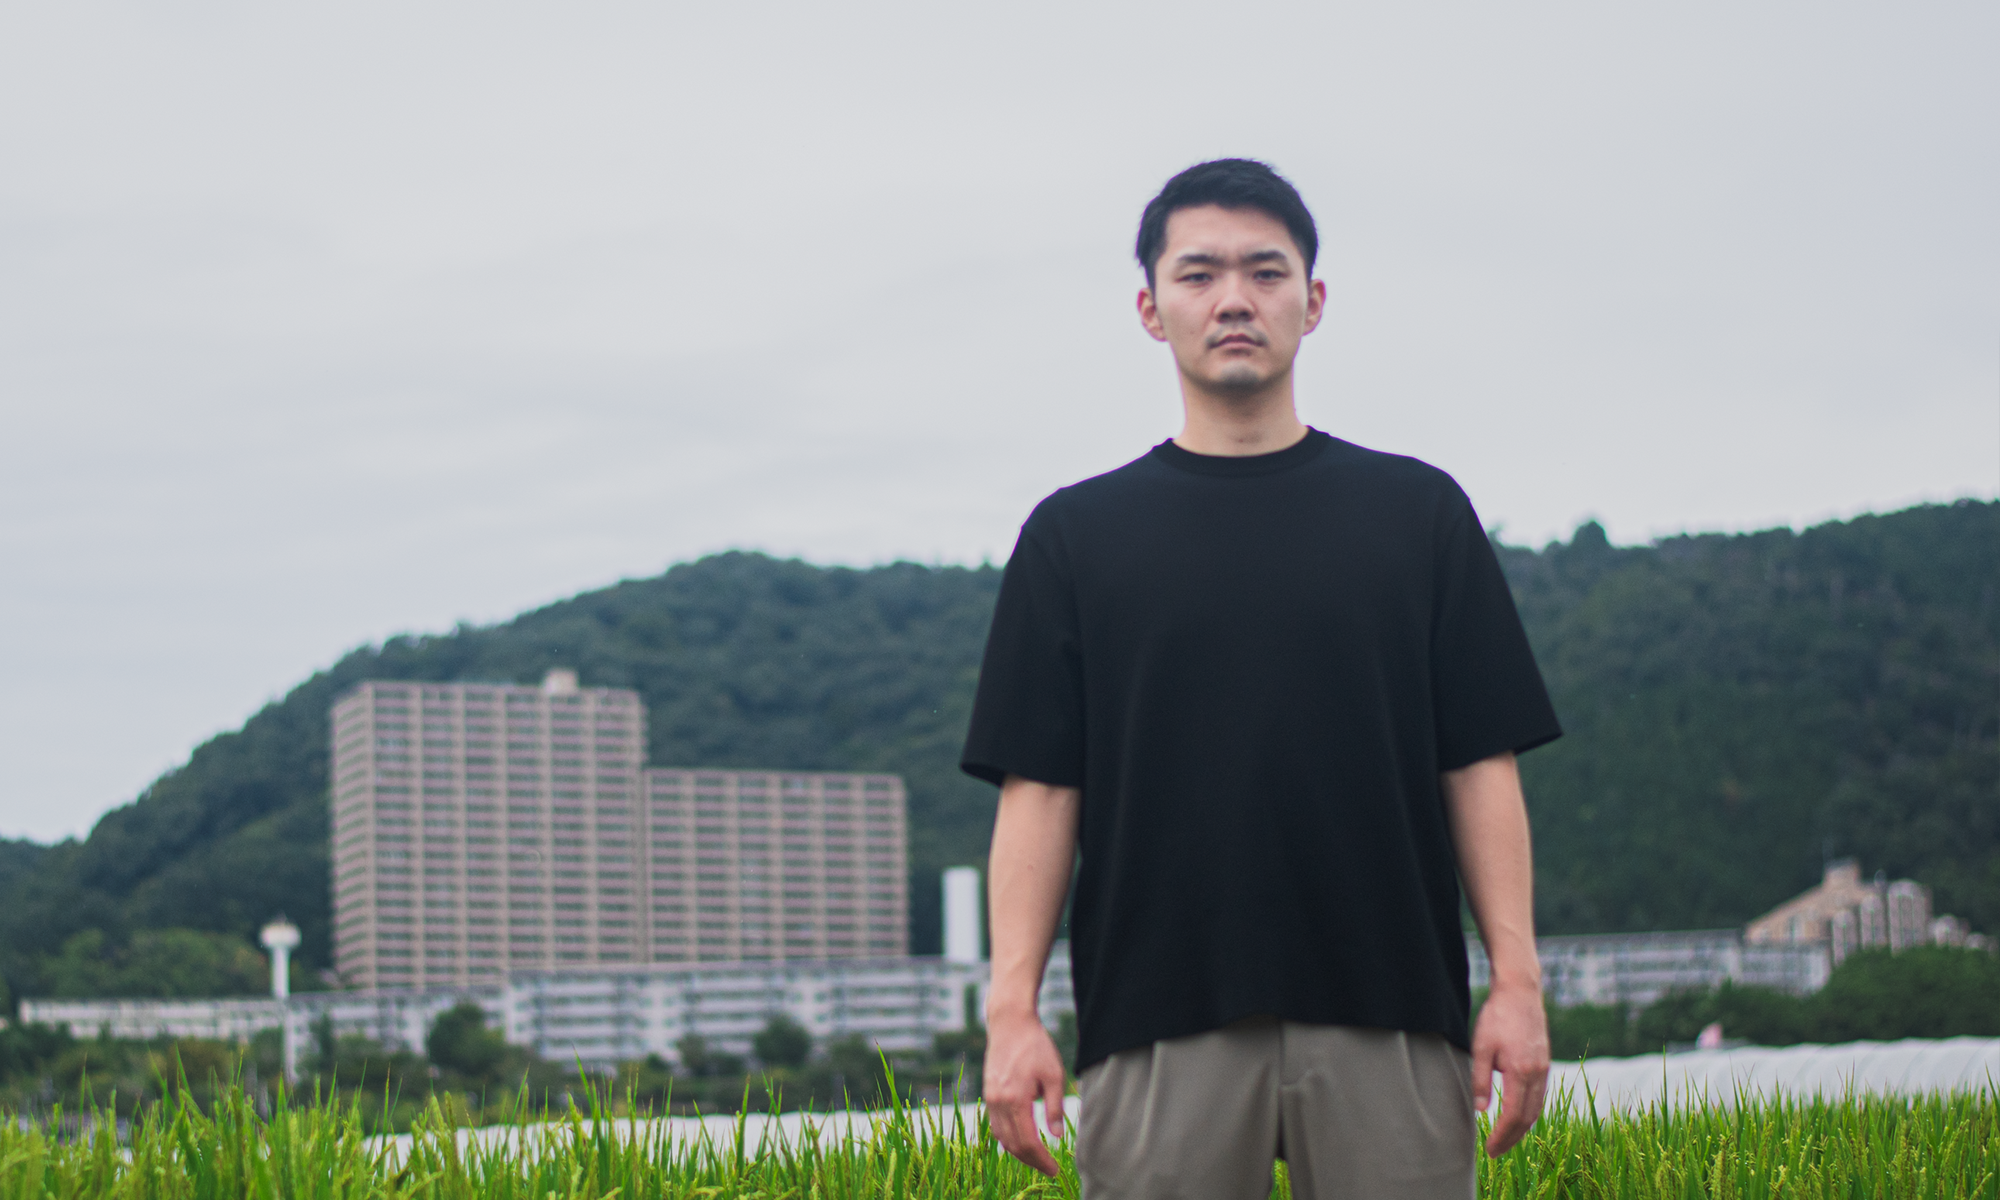
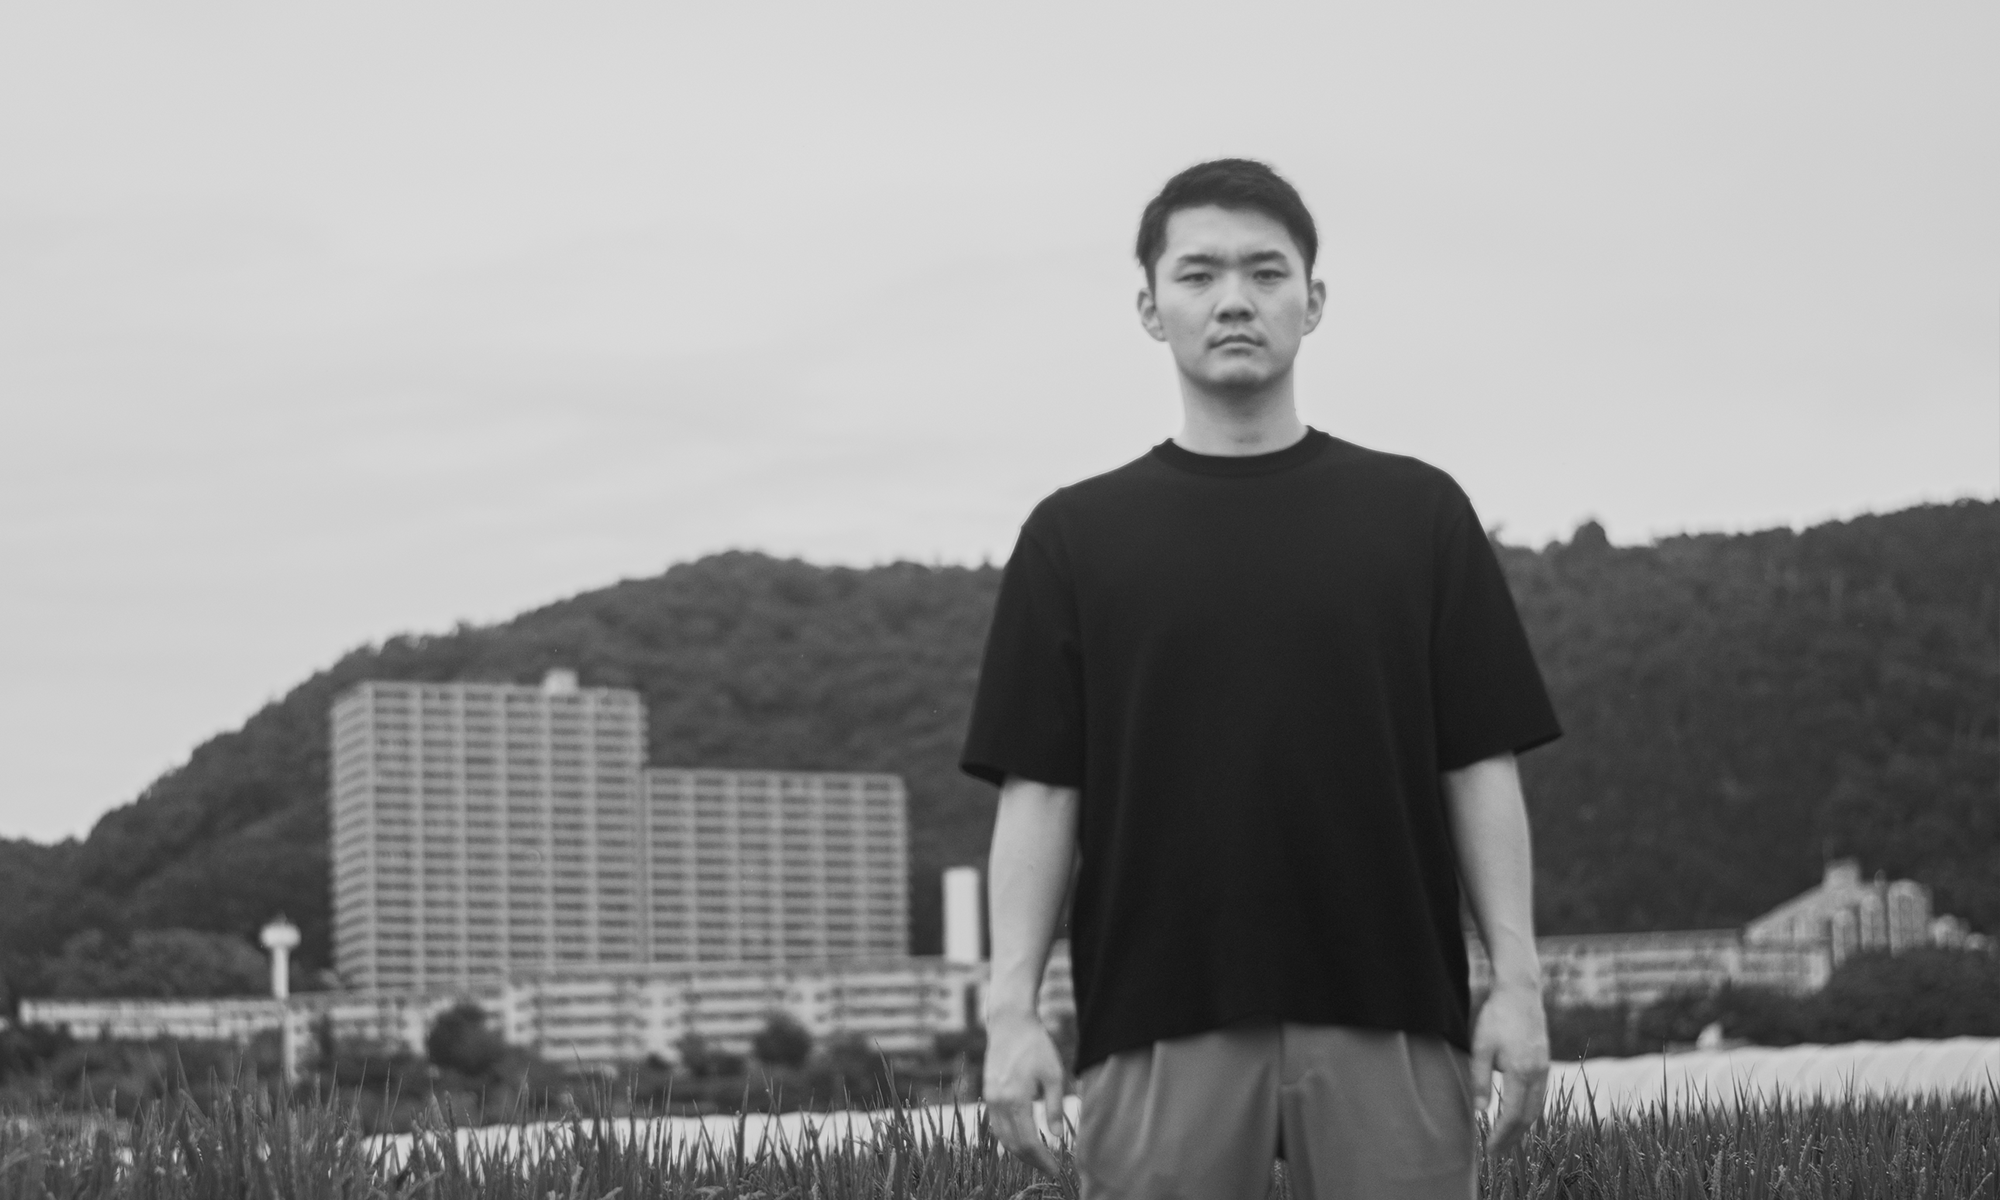
fix: 右脳ページの全画像altテキスト最適化

diff --git a/src/components/layouts/GlobalHeader.tsx b/src/components/layouts/GlobalHeader.tsx
@@ -7,6 +7,7 @@ import { cn } from "@/lib/utils";
 import { useHeaderStore } from "@/store/useHeaderStore";
 import { FiChevronRight } from "react-icons/fi";
 import Image from "next/image";
+import Link from "next/link"; // 追加
 
 type GlobalHeaderProps = {
   isVisible: boolean;
@@ -23,18 +24,16 @@ export default function GlobalHeader({
   const isFooterVisible = useHeaderStore((state) => state.isFooterVisible);
   const [mounted, setMounted] = useState(false);
 
-  // 新規追加：FVを通過したかどうかを判定するステート
+  // FVを通過したかどうかを判定するステート
   const [isPastFV, setIsPastFV] = useState(false);
   const { scrollY } = useScroll();
 
   // スクロール位置の監視（Framer Motionの最適化されたフックを使用）
   useMotionValueEvent(scrollY, "change", (latest) => {
-    // 【重要追加】前回のフレームからの移動距離を計算
     const prev = scrollY.getPrevious() || 0;
     const diff = Math.abs(latest - prev);
 
-    // 1フレームで500px以上動くことは人間のスクロールでは不可能。
-    // つまりプログラムによるジャンプ（復元）なので、ヘッダーの判定を無視する！
+    // ジャンプ（復元）の場合はヘッダーの判定を無視
     if (diff > 500) return;
 
     const fvHeight = typeof window !== "undefined" ? window.innerHeight : 800;
@@ -48,6 +47,12 @@ export default function GlobalHeader({
   useEffect(() => {
     setMounted(true);
   }, []);
+
+  // ロゴクリック時のスムーズスクロールハンドラー
+  const handleLogoClick = (e: React.MouseEvent<HTMLAnchorElement>) => {
+    e.preventDefault();
+    window.scrollTo({ top: 0, behavior: "smooth" });
+  };
 
   return (
     <>
@@ -71,15 +76,19 @@ export default function GlobalHeader({
           )}
           style={{ transformOrigin: "top left" }}
         >
-          <div className="relative w-full h-full transition-all duration-300 ease-out">
+          <Link
+            href="/"
+            onClick={handleLogoClick}
+            className="relative w-full h-full block outline-none focus-visible:ring-2 focus-visible:ring-olive rounded-sm"
+          >
             <Image
               src="/images/logo/logo_dark.svg"
-              alt="100選エンブレム"
+              alt="地域を代表する企業100選 Best 100 Companies Selected By Made In Local"
               fill
               priority
               className="object-contain"
             />
-          </div>
+          </Link>
         </div>
 
         {/* 中央: 切り替えトグル */}
@@ -130,12 +139,10 @@ export default function GlobalHeader({
       <motion.div
         className="md:hidden fixed bottom-0 left-0 w-full z-50 print:hidden"
         initial={{ opacity: 0, y: 20 }}
-        // isVisible（ページ上部の制御）と isFooterVisible（フッター到達時の制御）を組み合わせる
         animate={{
           opacity: isVisible && !isFooterVisible ? 1 : 0,
           y: isVisible && !isFooterVisible ? 0 : 20,
         }}
-        // 遷移時間を少し短くし、サッと隠れるようにUXを調整
         transition={{ duration: 0.3, ease: "easeOut" }}
         style={{
           pointerEvents: isVisible && !isFooterVisible ? "auto" : "none",

diff --git a/src/components/omoi/Phase8_Circulation.tsx b/src/components/omoi/Phase8_Circulation.tsx
@@ -144,7 +144,8 @@ export default function Phase8_Circulation() {
           <div className="absolute inset-0 w-full h-full">
             <Image
               src="/images/section8/map-1.jpg"
-              alt="一社の光"
+              alt=""
+              aria-hidden="true"
               fill
               priority
               className="object-cover"
@@ -159,7 +160,8 @@ export default function Phase8_Circulation() {
           >
             <Image
               src="/images/section8/map-2.jpg"
-              alt="地域の光"
+              alt=""
+              aria-hidden="true"
               fill
               className="object-cover"
               sizes="100vw"
@@ -173,7 +175,8 @@ export default function Phase8_Circulation() {
           >
             <Image
               src="/images/section8/map-3.jpg"
-              alt="つながる光"
+              alt=""
+              aria-hidden="true"
               fill
               className="object-cover"
               sizes="100vw"
@@ -187,7 +190,8 @@ export default function Phase8_Circulation() {
           >
             <Image
               src="/images/section8/map-4.jpg"
-              alt="輝く日本"
+              alt=""
+              aria-hidden="true"
               fill
               className="object-cover"
               sizes="100vw"

diff --git a/src/components/omoi/Phase9_Finale.tsx b/src/components/omoi/Phase9_Finale.tsx
@@ -150,19 +150,21 @@ function Phase9Content() {
               <motion.img
                 src="/images/phase9/founder-1.webp"
                 style={{ opacity: img1Opacity }}
-                className="absolute inset-0 w-full h-full object-cover grayscale"
+                className="absolute inset-0 w-full h-full object-cover"
                 alt=""
+                aria-hidden="true"
               />
               <motion.img
                 src="/images/phase9/founder-2.webp"
                 style={{ opacity: img2Opacity }}
-                className="absolute inset-0 w-full h-full object-cover grayscale"
+                className="absolute inset-0 w-full h-full object-cover"
                 alt=""
+                aria-hidden="true"
               />
               <motion.img
                 src="/images/phase9/founder-3.webp"
                 style={{ opacity: img3Opacity }}
-                className="absolute inset-0 w-full h-full object-cover grayscale"
+                className="absolute inset-0 w-full h-full object-cover"
                 alt="発起人 石井智大"
               />
             </motion.div>

diff --git a/src/components/omoi/Phase3_LossAndReality.tsx b/src/components/omoi/Phase3_LossAndReality.tsx
@@ -51,19 +51,18 @@ export default function Phase3_LossAndReality({ scrollYProgress }: Props) {
       style={{ opacity: phaseOpacity, pointerEvents: "none" }}
       className="absolute inset-0 w-full h-full z-20 flex flex-col items-center justify-center text-white"
     >
-      {/* 暗闇背景レイヤー（スクロールに応じてフェードイン） */}
+      {/* 暗闇背景レイヤー */}
       <motion.div
         style={{ opacity: bgOpacity }}
         className="absolute inset-0 w-full h-full -z-10"
+        aria-hidden="true"
       >
-        {/* 背景テクスチャが強すぎる場合の可読性担保用オーバーレイ */}
         <div className="absolute inset-0 bg-deepblue/40 z-10" />
         <Image
           src="/images/section3/bg-kurayami.jpg"
-          alt="暗闇背景"
+          alt=""
           fill
           className="object-cover opacity-80"
-          priority
         />
       </motion.div>
 

diff --git a/src/components/omoi/Phase7_NewStandard.tsx b/src/components/omoi/Phase7_NewStandard.tsx
@@ -116,6 +116,7 @@ export default function Phase7_NewStandard() {
                   willChange: "opacity",
                 }}
                 className="absolute inset-0 w-full h-full object-cover"
+                aria-hidden="true"
               />
             </motion.div>
           ))}
@@ -131,7 +132,7 @@ export default function Phase7_NewStandard() {
             <div className="w-40 md:w-56">
               <img
                 src="/images/logo/emblem_white.svg"
-                alt=""
+                alt="地域を代表する企業100選 Best 100 Companies Selected By Made In Local"
                 className="w-full h-auto drop-shadow-md"
               />
             </div>

diff --git a/src/components/omoi/LoadingPhase.tsx b/src/components/omoi/LoadingPhase.tsx
@@ -73,6 +73,7 @@ export default function LoadingPhase({
           key={currentImageIndex}
           src={BACKGROUND_IMAGES[currentImageIndex]}
           alt=""
+          aria-hidden="true"
           className={cn(
             "absolute inset-0 w-full h-full object-cover opacity-75 mix-blend-screen blur-none",
           )}
@@ -95,7 +96,7 @@ export default function LoadingPhase({
       >
         <img
           src="/images/logo/emblem.png"
-          alt="地域を代表する企業100選"
+          alt="地域を代表する企業100選 Best 100 Companies Selected By Made In Local"
           className="w-full h-auto"
         />
       </motion.div>

diff --git a/src/components/omoi/Phase4_LightOfHope.tsx b/src/components/omoi/Phase4_LightOfHope.tsx
@@ -28,14 +28,14 @@ export default function Phase4_LightOfHope({ scrollYProgress }: Props) {
       <motion.div
         style={{ opacity: bgOpacity }}
         className="absolute inset-0 w-full h-full -z-20"
+        aria-hidden="true"
       >
         <div className="absolute inset-0 bg-deepblue/40 z-10" />
         <Image
           src="/images/section3/bg-kurayami.jpg"
-          alt="暗闇背景"
+          alt=""
           fill
           className="object-cover opacity-80"
-          priority
         />
       </motion.div>
 

diff --git a/src/components/omoi/Phase5_6_BirthAndWhy.tsx b/src/components/omoi/Phase5_6_BirthAndWhy.tsx
@@ -80,7 +80,7 @@ export default function Phase5_6_BirthAndWhy() {
         >
           <img
             src="/images/logo/emblem_dark.svg"
-            alt="地域を代表する企業100選"
+            alt="地域を代表する企業100選 Best 100 Companies Selected By Made In Local"
             className="w-36 md:w-80 drop-shadow-2xl max-md:mb-2 md:mr-16"
           />
           <div className="max-w-3xl flex flex-col items-center md:items-start max-md:border-t md:border-l border-midblue/30  max-md:pt-8 md:pl-16 md:py-8">

diff --git a/src/components/omoi/StoryPhase.tsx b/src/components/omoi/StoryPhase.tsx
@@ -14,7 +14,7 @@ export default function StoryPhase() {
     offset: ["start start", "end end"],
   });
 
-  // 💡 調整: 背景色の切り替えをPhase4の「光」が広がるタイミング(0.8〜1.0)に合わせる
+  // 背景色の切り替え
   const backgroundColor = useTransform(
     scrollYProgress,
     [0.75, 0.9],

diff --git a/src/components/omoi/MapTransitionPhase.tsx b/src/components/omoi/MapTransitionPhase.tsx
@@ -35,7 +35,7 @@ export default function MapTransitionPhase() {
         >
           <img
             src="/images/section2/japan.svg"
-            alt="Japan Map"
+            alt=""
             className="w-full h-auto object-contain"
             aria-hidden="true"
           />
